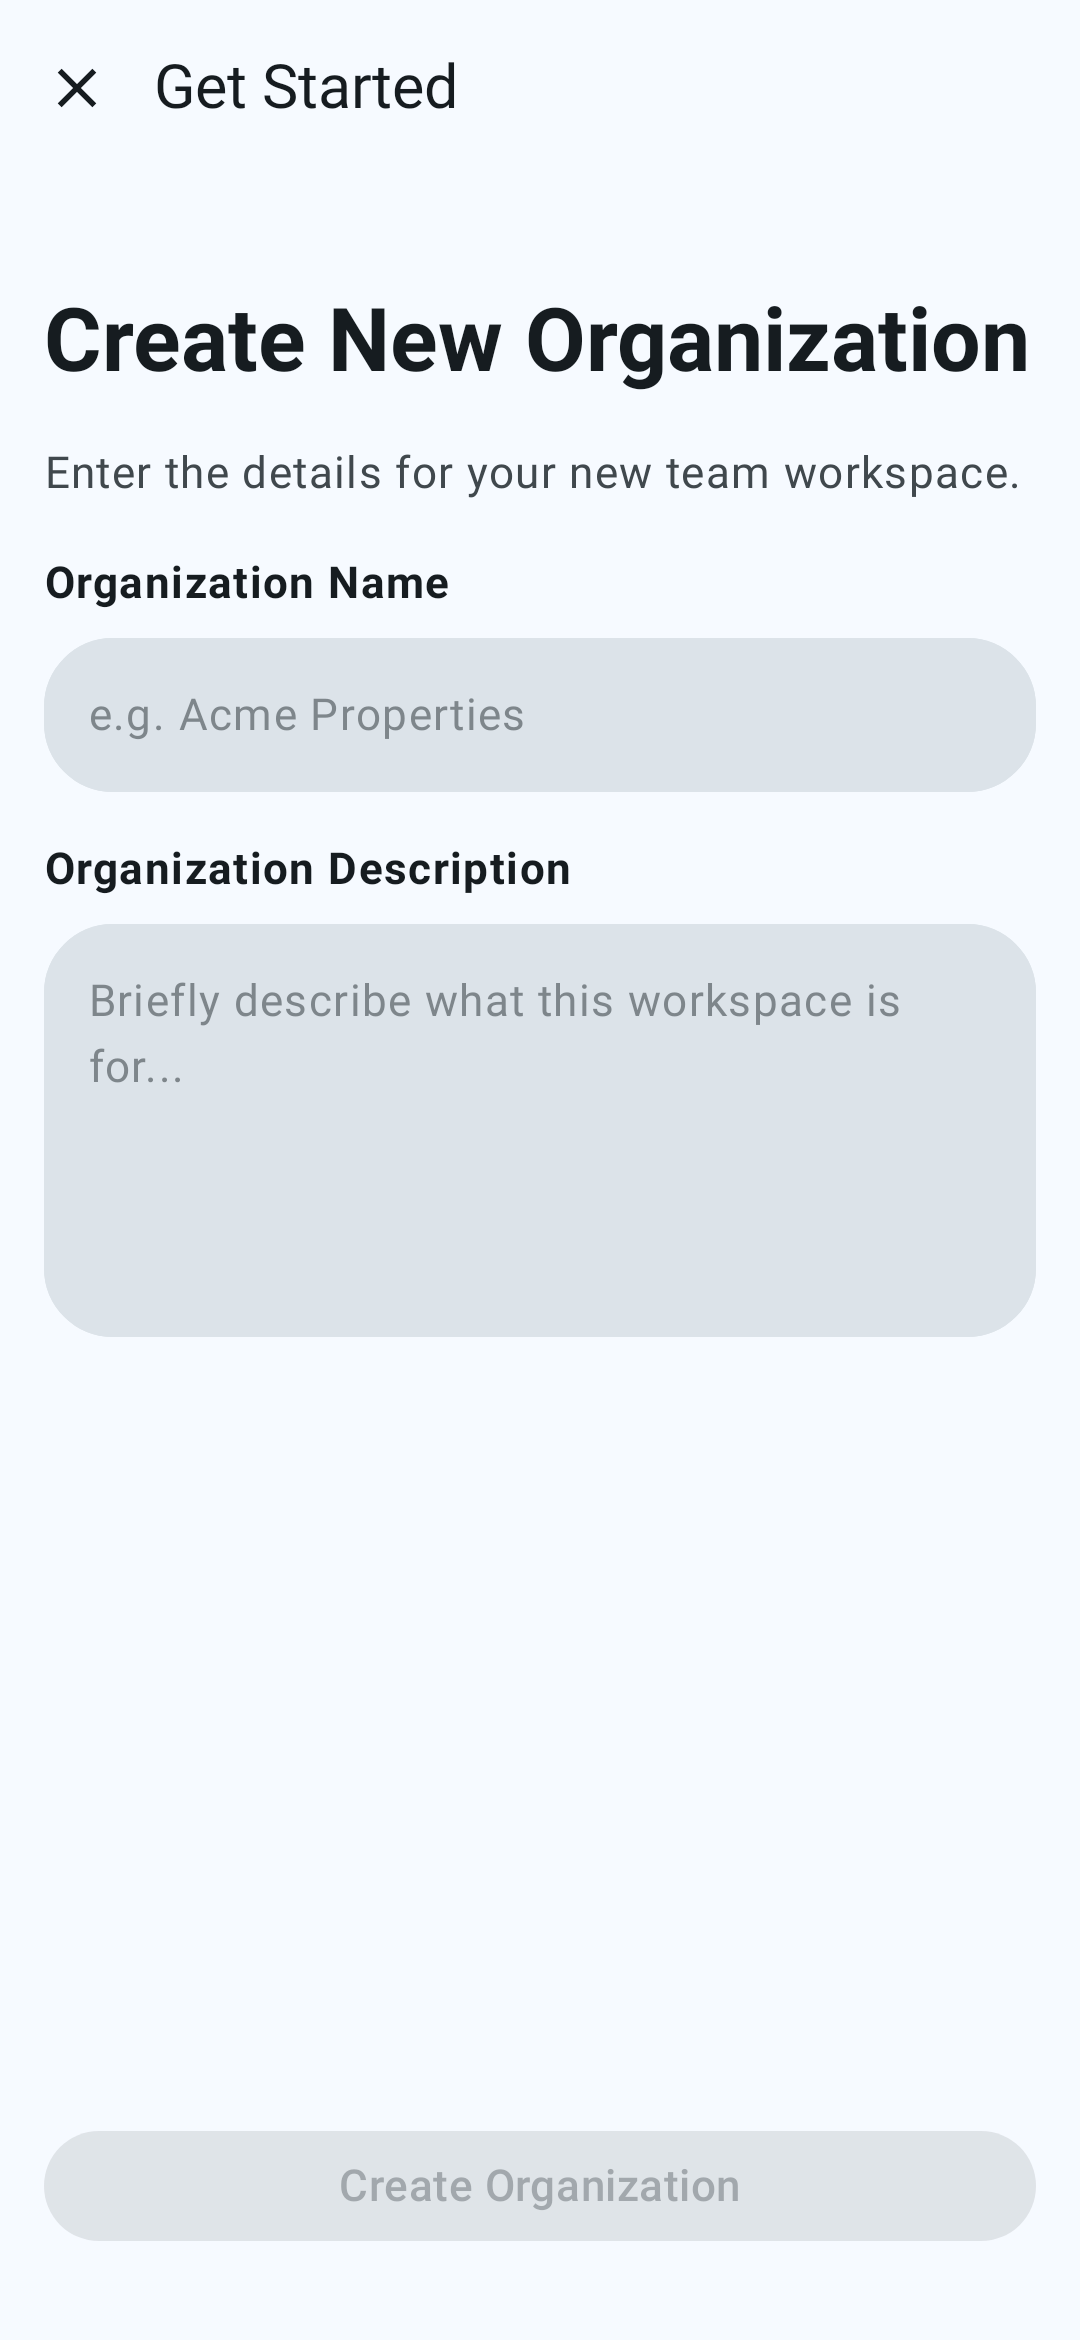
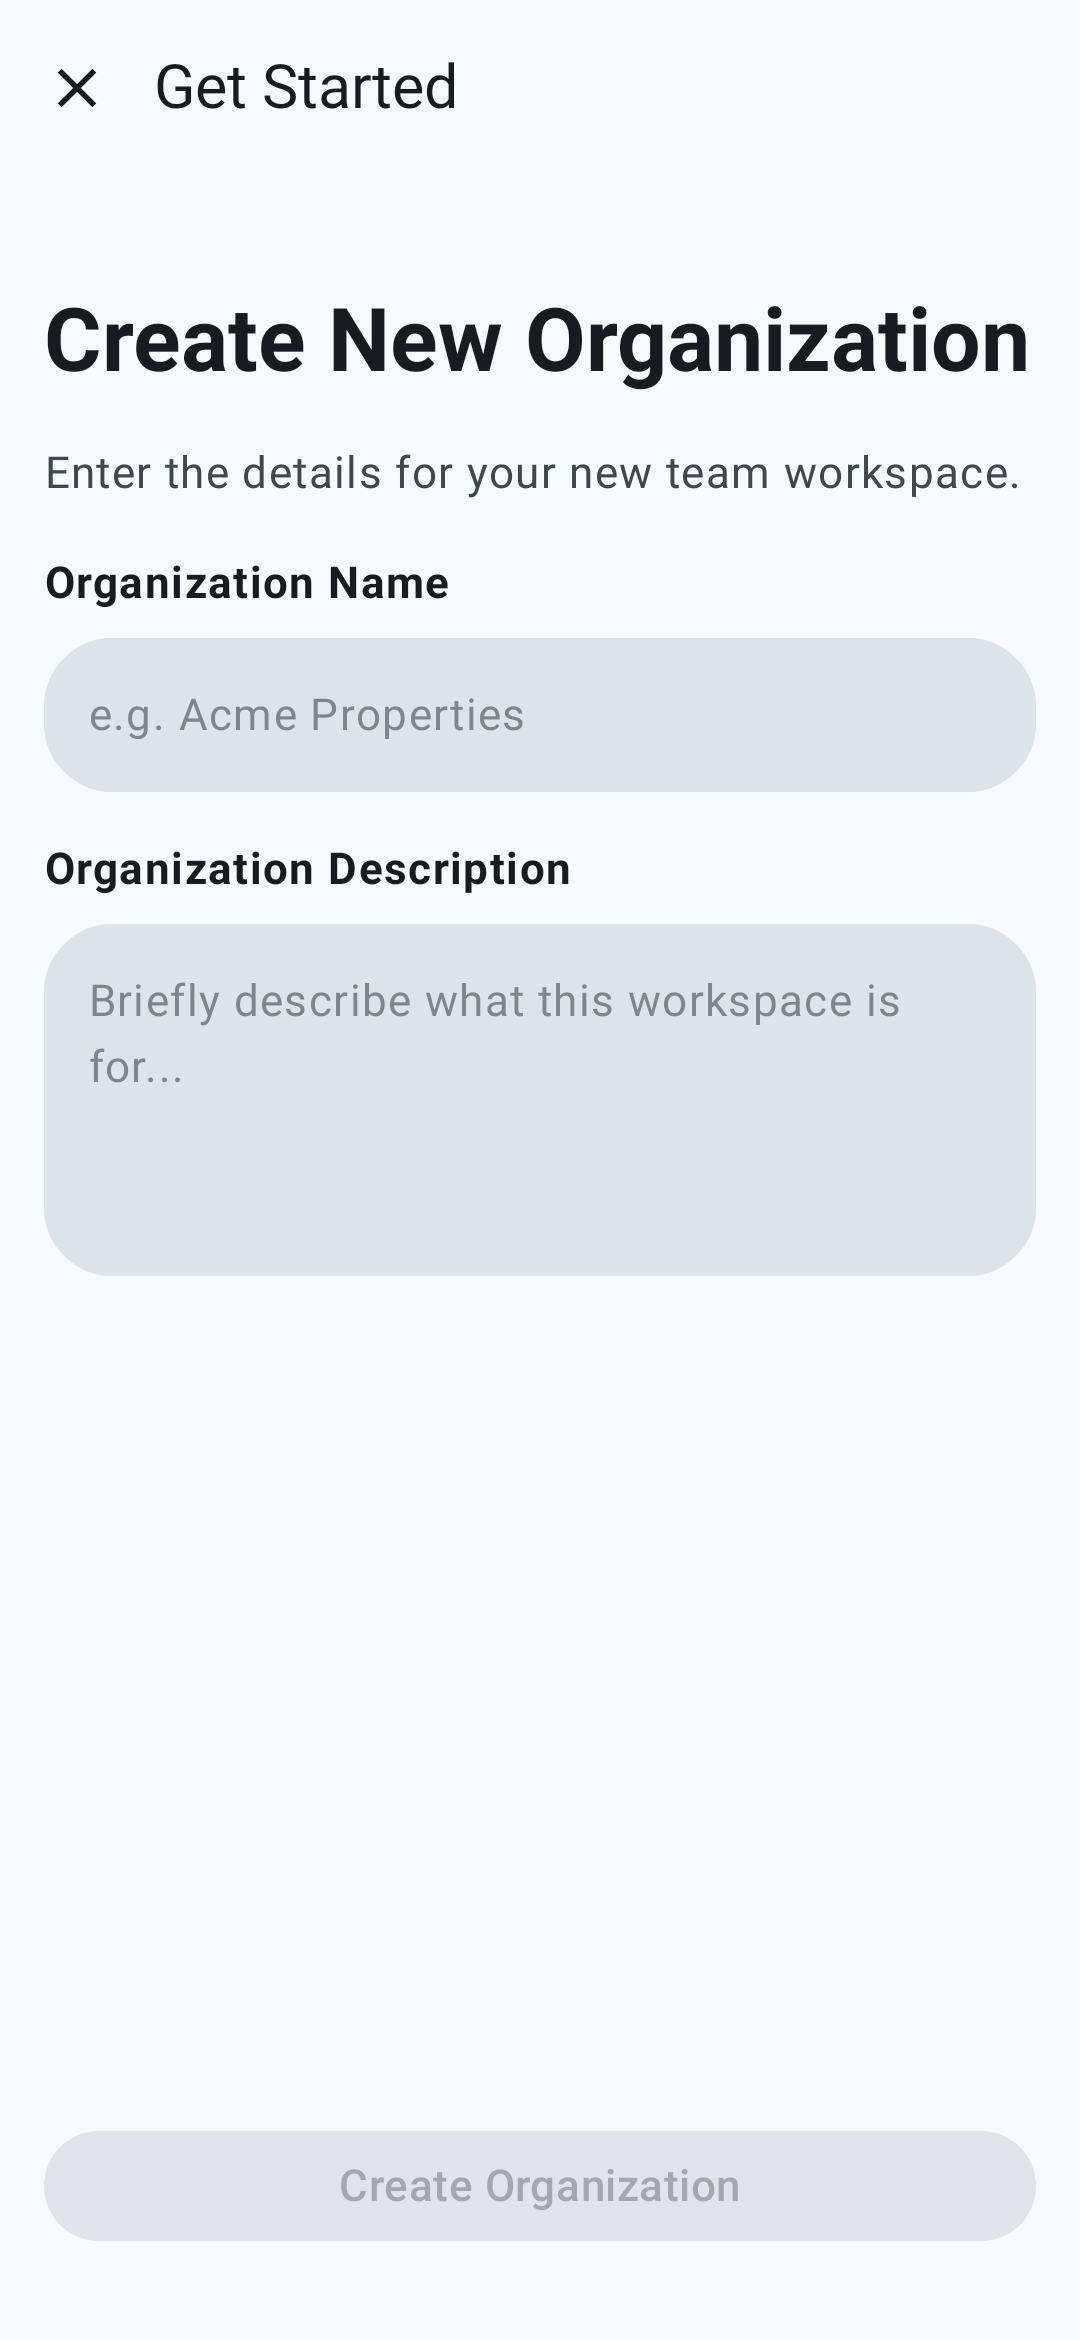
[Edifikana] Addressing feedback

Changed region(s): [[0.0306, 0.5303, 0.9778, 0.5927]]

diff --git a/edifikana/front-end/shared-ui/src/commonMain/kotlin/com/cramsan/edifikana/client/ui/components/OptionCard.kt b/edifikana/front-end/shared-ui/src/commonMain/kotlin/com/cramsan/edifikana/client/ui/components/OptionCard.kt
@@ -1,0 +1,120 @@
+package com.cramsan.edifikana.client.ui.components
+
+import androidx.compose.foundation.background
+import androidx.compose.foundation.clickable
+import androidx.compose.foundation.layout.Arrangement
+import androidx.compose.foundation.layout.Box
+import androidx.compose.foundation.layout.Column
+import androidx.compose.foundation.layout.Row
+import androidx.compose.foundation.layout.Spacer
+import androidx.compose.foundation.layout.fillMaxWidth
+import androidx.compose.foundation.layout.padding
+import androidx.compose.foundation.layout.size
+import androidx.compose.foundation.shape.CircleShape
+import androidx.compose.material.icons.Icons
+import androidx.compose.material.icons.filled.Domain
+import androidx.compose.material.icons.filled.Groups
+import androidx.compose.material3.Card
+import androidx.compose.material3.CardColors
+import androidx.compose.material3.CardDefaults
+import androidx.compose.material3.Icon
+import androidx.compose.material3.MaterialTheme
+import androidx.compose.material3.Text
+import androidx.compose.runtime.Composable
+import androidx.compose.ui.Alignment
+import androidx.compose.ui.Modifier
+import androidx.compose.ui.draw.clip
+import androidx.compose.ui.graphics.vector.ImageVector
+import androidx.compose.ui.text.font.FontWeight
+import com.cramsan.edifikana.client.ui.theme.AppTheme
+import com.cramsan.ui.theme.Padding
+import com.cramsan.ui.theme.Size
+import org.jetbrains.compose.ui.tooling.preview.Preview
+
+@Composable
+fun OptionCard(
+    title: String,
+    description: String,
+    icon: ImageVector,
+    onClick: (() -> Unit)?,
+    colors: CardColors = CardDefaults.cardColors(),
+    modifier: Modifier = Modifier,
+) {
+    Card (
+        modifier = modifier
+            .fillMaxWidth(),
+        colors = colors,
+        shape = MaterialTheme.shapes.large,
+    ) {
+        Row(
+            modifier = Modifier
+                .clickable(enabled = onClick != null) {
+                    onClick?.invoke()
+                }
+                .fillMaxWidth()
+                .padding(Padding.MEDIUM),
+            verticalAlignment = Alignment.CenterVertically,
+            horizontalArrangement = Arrangement.SpaceBetween,
+        ) {
+            Column (
+                modifier = Modifier.weight(1f),
+            ) {
+                Text(
+                    text = title,
+                    style = MaterialTheme.typography.titleMedium,
+                    fontWeight = FontWeight.SemiBold,
+                )
+                Spacer(modifier = Modifier.size(Padding.X_SMALL))
+                Text(
+                    text = description,
+                    style = MaterialTheme.typography.bodyMedium,
+                    color = colors.contentColor,
+                )
+            }
+
+            Spacer(modifier = Modifier.size(Padding.MEDIUM))
+
+            // Icon with circular background
+            Box(
+                modifier = Modifier
+                    .size(Size.xx_large)
+                    .clip(CircleShape)
+                    .background(colors.containerColor.copy(alpha = 0.3f)),
+                contentAlignment = Alignment.Center,
+            ) {
+                Icon(
+                    imageVector = icon,
+                    contentDescription = null,
+                    tint = colors.contentColor,
+                    modifier = Modifier.size(Size.large),
+                )
+            }
+        }
+    }
+}
+
+@Preview
+@Composable
+private fun OptionCardPreview_Disabled_Card() = AppTheme {
+    OptionCard(
+        title = "Join an existing team",
+        description = "I have an invite code or want to search for my company.",
+        icon = Icons.Default.Groups,
+        colors = CardDefaults.cardColors().copy(
+            containerColor = MaterialTheme.colorScheme.surfaceVariant.copy(alpha = 0.3f),
+            contentColor = MaterialTheme.colorScheme.onSurfaceVariant.copy(alpha = 0.3f),
+        ),
+        onClick = null,
+    )
+}
+
+@Preview
+@Composable
+private fun OptionCardPreview_Enabled_Card() = AppTheme {
+    OptionCard(
+        title = "Create a new workspace",
+        description = "I want to set up a new property portfolio for my team.",
+        icon = Icons.Default.Domain,
+        onClick = { },
+    )
+}

diff --git a/edifikana/front-end/shared-app/src/commonMain/kotlin/com/cramsan/edifikana/client/lib/features/auth/onboarding/selectorg/SelectOrgScreen.kt b/edifikana/front-end/shared-app/src/commonMain/kotlin/com/cramsan/edifikana/client/lib/features/auth/onboarding/selectorg/SelectOrgScreen.kt
@@ -29,6 +29,7 @@ import androidx.compose.ui.draw.clip
 import androidx.compose.ui.graphics.vector.ImageVector
 import androidx.compose.ui.text.font.FontWeight
 import com.cramsan.edifikana.client.ui.components.EdifikanaTopBar
+import com.cramsan.edifikana.client.ui.components.OptionCard
 import com.cramsan.framework.core.compose.rememberDialogController
 import com.cramsan.framework.core.compose.ui.ObserveViewModelEvents
 import com.cramsan.ui.components.ScreenLayout
@@ -133,67 +134,5 @@ internal fun SelectOrgContent(
                 )
             }
         )
-    }
-}
-
-@Composable
-private fun OptionCard(
-    title: String,
-    description: String,
-    icon: ImageVector,
-    onClick: (() -> Unit)?,
-    colors: CardColors = CardDefaults.cardColors(),
-    modifier: Modifier = Modifier,
-) {
-    Card(
-        modifier = modifier
-            .fillMaxWidth(),
-        colors = colors,
-        shape = MaterialTheme.shapes.large,
-    ) {
-        Row(
-            modifier = Modifier
-                .clickable(enabled = onClick != null) {
-                    onClick?.invoke()
-                }
-                .fillMaxWidth()
-                .padding(Padding.MEDIUM),
-            verticalAlignment = Alignment.CenterVertically,
-            horizontalArrangement = Arrangement.SpaceBetween,
-        ) {
-            Column(
-                modifier = Modifier.weight(1f),
-            ) {
-                Text(
-                    text = title,
-                    style = MaterialTheme.typography.titleMedium,
-                    fontWeight = FontWeight.SemiBold,
-                )
-                Spacer(modifier = Modifier.size(Padding.X_SMALL))
-                Text(
-                    text = description,
-                    style = MaterialTheme.typography.bodyMedium,
-                    color = colors.contentColor,
-                )
-            }
-
-            Spacer(modifier = Modifier.size(Padding.MEDIUM))
-
-            // Icon with circular background
-            Box(
-                modifier = Modifier
-                    .size(Size.xx_large)
-                    .clip(CircleShape)
-                    .background(colors.containerColor.copy(alpha = 0.3f)),
-                contentAlignment = Alignment.Center,
-            ) {
-                Icon(
-                    imageVector = icon,
-                    contentDescription = null,
-                    tint = colors.contentColor,
-                    modifier = Modifier.size(Size.large),
-                )
-            }
-        }
     }
 }

diff --git a/edifikana/front-end/shared-app/src/commonMain/kotlin/com/cramsan/edifikana/client/lib/features/auth/onboarding/createneworg/CreateNewOrgScreen.kt b/edifikana/front-end/shared-app/src/commonMain/kotlin/com/cramsan/edifikana/client/lib/features/auth/onboarding/createneworg/CreateNewOrgScreen.kt
@@ -123,10 +123,15 @@ internal fun CreateNewOrgContent(
                 )
 
                 // Organization Description field (multiline)
-                OrganizationDescriptionField(
+                EdifikanaTextField(
                     value = content.organizationDescription,
                     onValueChange = onOrganizationDescriptionChanged,
+                    label = "Organization Description",
+                    placeholder = "Briefly describe what this workspace is for...",
                     modifier = sectionModifier,
+                    minLines = 4,
+                    maxLines = 5,
+                    singleLine = false,
                 )
             },
             buttonContent = { buttonModifier ->
@@ -137,49 +142,6 @@ internal fun CreateNewOrgContent(
                     enabled = content.isButtonEnabled,
                 )
             }
-        )
-    }
-}
-
-/**
- * Multiline text field for organization description.
- */
-@Composable
-private fun OrganizationDescriptionField(
-    value: String,
-    onValueChange: (String) -> Unit,
-    modifier: Modifier = Modifier,
-) {
-    Column(
-        modifier = modifier.fillMaxWidth(),
-    ) {
-        Text(
-            text = "Organization Description",
-            fontWeight = FontWeight.Bold,
-            modifier = Modifier.padding(bottom = 8.dp),
-        )
-        OutlinedTextField(
-            value = value,
-            onValueChange = onValueChange,
-            modifier = Modifier
-                .fillMaxWidth()
-                .height(150.dp),
-            placeholder = {
-                Text(
-                    text = "Briefly describe what this workspace is for...",
-                    style = MaterialTheme.typography.bodyLarge,
-                    color = MaterialTheme.colorScheme.onSurfaceVariant.copy(alpha = 0.6f)
-                )
-            },
-            shape = RoundedCornerShape(25.dp),
-            colors = OutlinedTextFieldDefaults.colors(
-                focusedContainerColor = MaterialTheme.colorScheme.surfaceContainerHighest,
-                unfocusedContainerColor = MaterialTheme.colorScheme.surfaceContainerHighest,
-                disabledContainerColor = MaterialTheme.colorScheme.surfaceContainerHigh,
-                focusedBorderColor = MaterialTheme.colorScheme.primary,
-                unfocusedBorderColor = MaterialTheme.colorScheme.surfaceContainerHighest,
-            ),
-            textStyle = MaterialTheme.typography.bodyLarge,
         )
     }
 }

diff --git a/edifikana/front-end/shared-ui/src/commonMain/kotlin/com/cramsan/edifikana/client/ui/components/EdifikanaTextField.kt b/edifikana/front-end/shared-ui/src/commonMain/kotlin/com/cramsan/edifikana/client/ui/components/EdifikanaTextField.kt
@@ -35,6 +35,9 @@ fun EdifikanaTextField(
     label: String? = null,
     isPassword: Boolean = false,
     enabled: Boolean = true,
+    maxLines: Int = 1,
+    minLines: Int = 1,
+    singleLine: Boolean = true,
 ) {
     Column(
         modifier = modifier.fillMaxWidth(),
@@ -60,7 +63,9 @@ fun EdifikanaTextField(
             },
             visualTransformation = if (isPassword) PasswordVisualTransformation() else VisualTransformation.None,
             enabled = enabled,
-            singleLine = true,
+            singleLine = singleLine,
+            maxLines = maxLines,
+            minLines = minLines,
             shape = RoundedCornerShape(25.dp),
             colors = OutlinedTextFieldDefaults.colors(
                 focusedContainerColor = MaterialTheme.colorScheme.surfaceContainerHighest,
